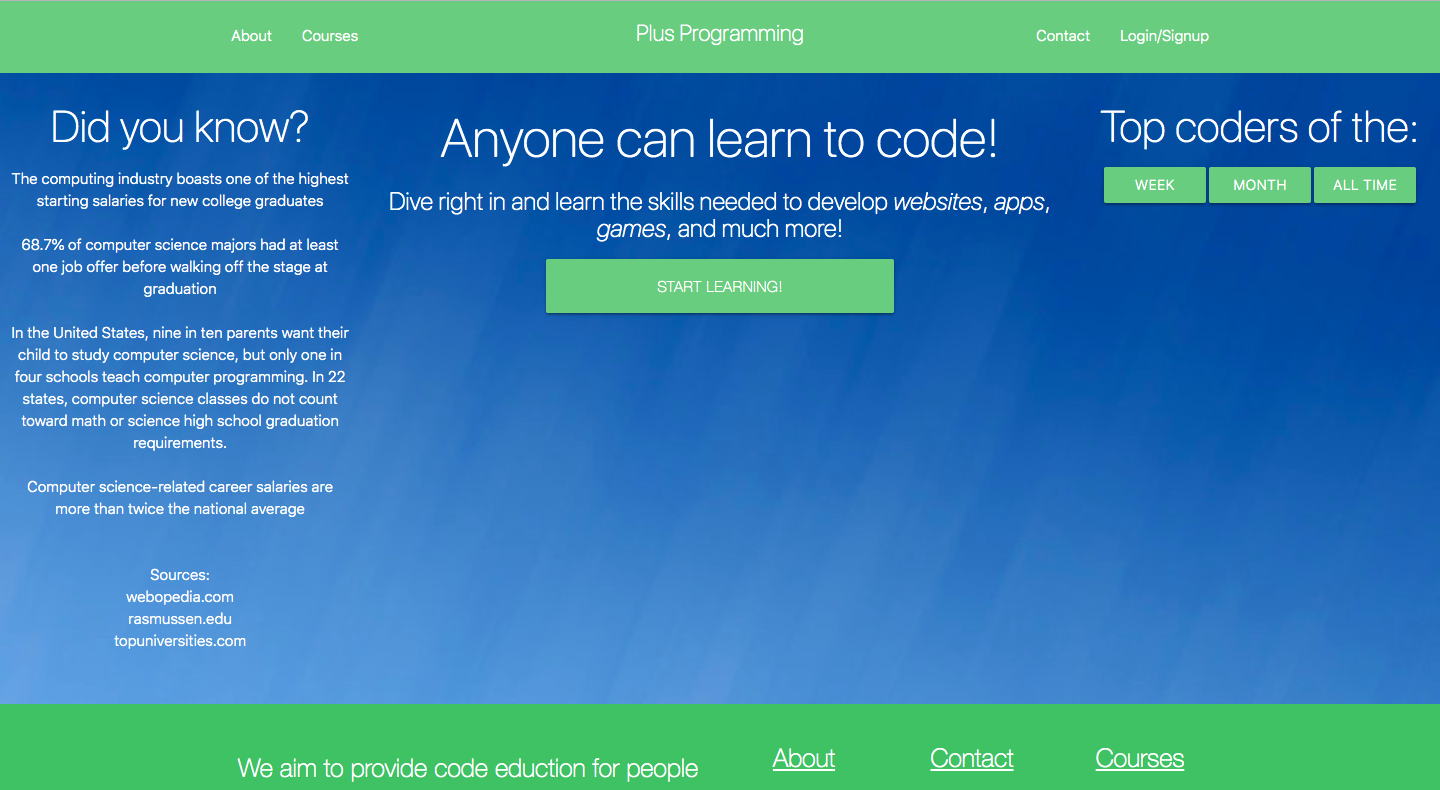
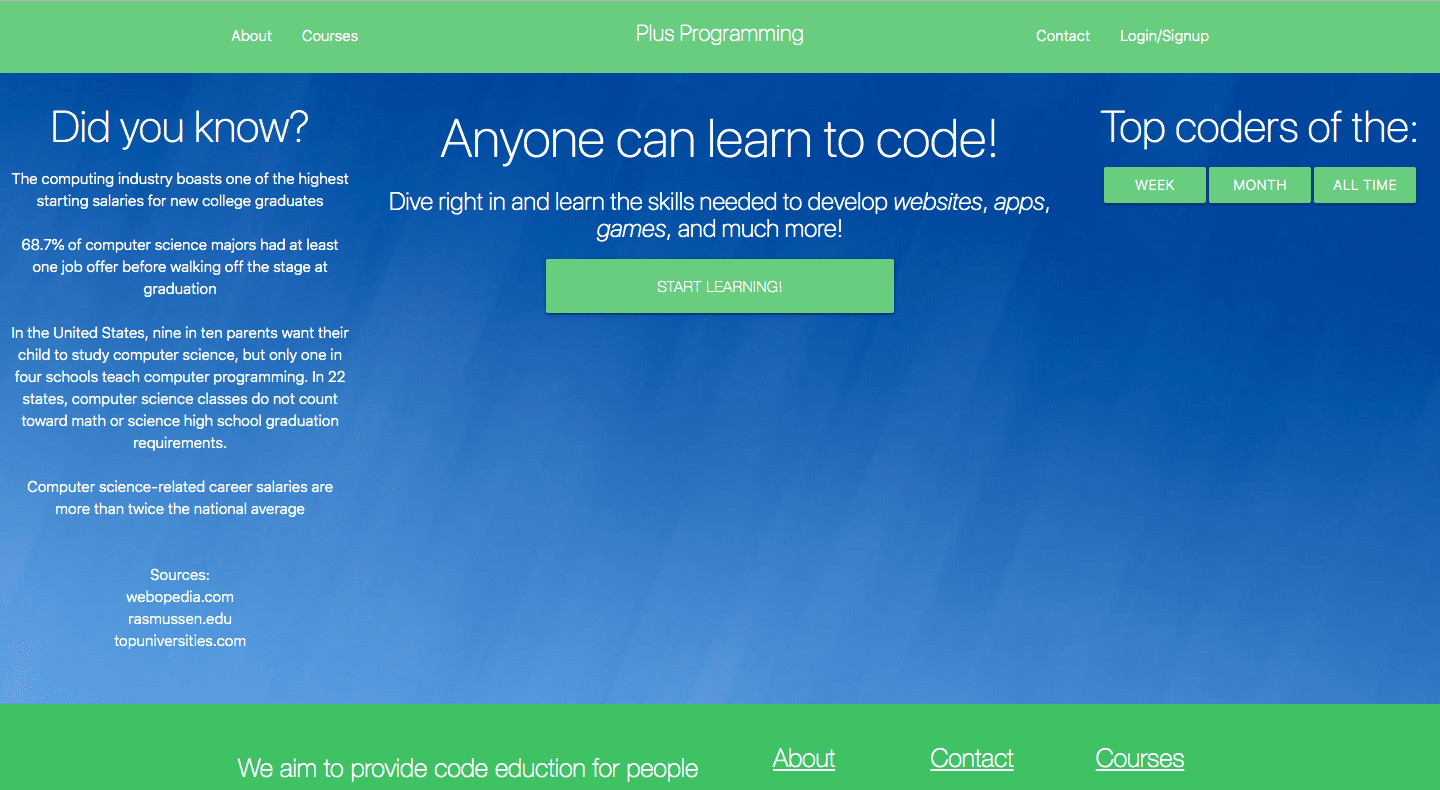
Compressed various images & small code refactoring

Changed region(s): [[0.7812, 0.9418, 0.8125, 0.9722], [0.0, 0.8506, 0.0312, 0.881]]

diff --git a/srcRewrite/pages/about.html b/srcRewrite/pages/about.html
@@ -1,21 +1,27 @@
 <html lang="en">
+
 <head>
   <!-- Global site tag (gtag.js) - Google Analytics -->
-  <script async src="https://www.googletagmanager.com/gtag/js?id=UA-135502901-1"></script>
+  <script async
+    src="https://www.googletagmanager.com/gtag/js?id=UA-135502901-1"></script>
   <script>
-  window.dataLayer = window.dataLayer || [];
-  function gtag(){dataLayer.push(arguments);}
-  gtag('js', new Date());
+    window.dataLayer = window.dataLayer || [];
+    function gtag() { dataLayer.push(arguments); }
+    gtag('js', new Date());
 
-  gtag('config', 'UA-135502901-1');
+    gtag('config', 'UA-135502901-1');
   </script>
   <meta charset="UTF-8">
   <meta name="viewport" content="width=device-width, initial-scale=1.0">
   <meta http-equiv="X-UA-Compatible" content="ie=edge">
 
-  <link rel="stylesheet" href="https://cdnjs.cloudflare.com/ajax/libs/materialize/1.0.0/css/materialize.min.css">
-  <link href="https://fonts.googleapis.com/icon?family=Material+Icons" rel="stylesheet">
-  <script defer src="https://use.fontawesome.com/releases/v5.6.3/js/all.js" integrity="sha384-EIHISlAOj4zgYieurP0SdoiBYfGJKkgWedPHH4jCzpCXLmzVsw1ouK59MuUtP4a1" crossorigin="anonymous"></script>
+  <link rel="stylesheet"
+    href="https://cdnjs.cloudflare.com/ajax/libs/materialize/1.0.0/css/materialize.min.css">
+  <link href="https://fonts.googleapis.com/icon?family=Material+Icons"
+    rel="stylesheet">
+  <script defer src="https://use.fontawesome.com/releases/v5.6.3/js/all.js"
+    integrity="sha384-EIHISlAOj4zgYieurP0SdoiBYfGJKkgWedPHH4jCzpCXLmzVsw1ouK59MuUtP4a1"
+    crossorigin="anonymous"></script>
 
   <link rel="stylesheet" href="../dependencies/animate.min.css">
   <link rel="stylesheet" href="../common.css">
@@ -26,6 +32,7 @@
   <title>About</title>
 
 </head>
+
 <body>
   <!-- Navbar -->
   <header>
@@ -33,25 +40,38 @@
       <div class="container">
         <a href="../index" class="brand-logo left">Matthew Lin</a>
         <!-- Mobile sidenav trigger icon -->
-        <a href="#" class="sidenav-trigger right" data-target="mobile-links">
+        <a href="#" class="sidenav-trigger right"
+          data-target="mobile-links">
           <i class="material-icons">menu</i>
         </a>
 
         <!-- Navbar for large and xlarge screens -->
         <ul class="right hide-on-med-and-down">
-          <li class="blue"><a href="../pages/about" class="waves-effect waves-light btn-large blue z-depth-0">About</a></li>
-          <li><a href="../index" class="waves-effect waves-light btn-large blue lighten-1 z-depth-0">Portfolio</a></li>
-          <li><a href="../pages/testimonials" class="waves-effect waves-light btn-large blue lighten-1 z-depth-0">Testimonials</a></li>
-          <li><a href="../pages/contact" class="waves-effect waves-light btn-large blue lighten-1 z-depth-0">Contact</a></li>
+          <li class="blue"><a href="../pages/about"
+              class="waves-effect waves-light btn-large blue z-depth-0">About</a>
+          </li>
+          <li><a href="../index"
+              class="waves-effect waves-light btn-large blue lighten-1 z-depth-0">Portfolio</a>
+          </li>
+          <li><a href="../pages/testimonials"
+              class="waves-effect waves-light btn-large blue lighten-1 z-depth-0">Testimonials</a>
+          </li>
+          <li><a href="../pages/contact"
+              class="waves-effect waves-light btn-large blue lighten-1 z-depth-0">Contact</a>
+          </li>
         </ul>
       </div>
     </nav>
     <!-- Mobile Navbar (Reactive) -->
     <ul class="sidenav" id="mobile-links">
-      <li class="active"><a href="../pages/about" class="waves-effect waves-light">About</a></li>
-      <li><a href="../index" class="waves-effect waves-light">Portfolio</a></li>
-      <li><a href="../pages/testimonials" class="waves-effect waves-light">Testimonials</a></li>
-      <li><a href="../pages/contact" class="waves-effect waves-light">Contact</a></li>
+      <li class="active"><a href="../pages/about"
+          class="waves-effect waves-light">About</a></li>
+      <li><a href="../index" class="waves-effect waves-light">Portfolio</a>
+      </li>
+      <li><a href="../pages/testimonials"
+          class="waves-effect waves-light">Testimonials</a></li>
+      <li><a href="../pages/contact"
+          class="waves-effect waves-light">Contact</a></li>
     </ul>
   </header>
 
@@ -62,10 +82,12 @@
       <h4 id="title"></h4>
     </div>
 
-    <img class="col s12 m2 offset-m1 scale-image hide" src="../images/mbhs.jpg">
-    <img class="col s12 m2 scale-image hide" src="../images/ucsd-extension.jpg">
+    <img class="col s12 m2 offset-m1 scale-image hide"
+      src="../images/mbhs.jpg">
+    <img class="col s12 m2 scale-image hide"
+      src="../images/ucsd-extension.jpg">
     <img class="col s12 m2 scale-image hide" src="../images/matthew.JPG">
-    <img class="col s12 m2 scale-image hide" src="../images/mit.png">
+    <img class="col s12 m2 scale-image hide white" src="../images/mit.png">
     <img class="col s12 m2 scale-image hide" src="../images/frc.jpeg">
     <!-- <div class="col s12 m2 offset-m5">
       <img class="scale-image hide" src="../images/matthew.jpg">
@@ -78,40 +100,65 @@
 
     <div class="col s12 m8 offset-m2 hide">
       <p class="flow-text">
-        I first discovered my passion for programming around the age of 12 when I stumbled upon the game making tool called Unity.
-        In the time since, I have been constantly working towards improving my abilities.
-        I am extremely grateful for the amazing opportunities that I have been given which have allowed me to hone and develop my skill set.
-        I make sure to utilize them in a productive way in order to help myself in addition to teaching and assisting others.
-        <br /><br />I attended Pacific Beach Middle School in the 17-18 school year and graduated with a 4.0 GPA.
-        In addition to this, I attended <strong>UCSD Extension for a Certificate in C/C++ Programming</strong> which I obtained September 2018.
-        I am currently a sophomore at Mission Bay High School and hold a Cumulative <strong>4.63 GPA</strong> (w/o PE).
-        <br /><br />I currently take part in many extracurriculars that I love doing.
-        I am a co-founder of the Mission Bay High School Entrepreneurship Club. I am also a member of the Track & Field
-        team. In addition, I am violinist in my school's orchestra and one of the student leaders in our robotics team's
+        I first discovered my passion for programming around the age of 12
+        when I stumbled upon the game making tool called Unity.
+        In the time since, I have been constantly working towards improving
+        my abilities.
+        I am extremely grateful for the amazing opportunities that I have
+        been given which have allowed me to hone and develop my skill set.
+        I make sure to utilize them in a productive way in order to help
+        myself in addition to teaching and assisting others.
+        <br /><br />I attended Pacific Beach Middle School in the 17-18
+        school year and graduated with a 4.0 GPA.
+        In addition to this, I attended <strong>UCSD Extension for a
+          Certificate in C/C++ Programming</strong> which I obtained
+        September 2018.
+        I am currently a sophomore at Mission Bay High School and hold a
+        Cumulative <strong>4.63 GPA</strong> (w/o PE).
+        <br /><br />I currently take part in many extracurriculars that I
+        love doing.
+        I am a co-founder of the Mission Bay High School Entrepreneurship
+        Club. I am also a member of the Track & Field
+        team. In addition, I am violinist in my school's orchestra and one
+        of the student leaders in our robotics team's
         programming division.
-        <br /><br />The work that I do is honest and filled with the very passion that drives me to push my limits farther and farther each passing day.
-        Over the past few years, I have had the opportunity to interact with and learn from amazing people in the software industry.
+        <br /><br />The work that I do is honest and filled with the very
+        passion that drives me to push my limits farther and farther each
+        passing day.
+        Over the past few years, I have had the opportunity to interact
+        with and learn from amazing people in the software industry.
         <br /><br />Currently, I am working on
-        <a href="https://plusprogramming.net/pages/about" target="_blank" class="white-link">Plus Programming</a> which is an code education platform
-        which aims to teach people of all ages many skills essential in the computer science industry. Currently, I am still working
-        on getting the main website up and running, but the blog and youtube channel already have content available. I started this project
-        to combine my two passions in order to create something that can benefit everyone. I also want to help give back to the cs community
-        as I wouldn't be here without the vast amount of free learning resources that I have utilized over my years coding.
+        <a href="https://plusprogramming.net/pages/about" target="_blank"
+          class="white-link">Plus Programming</a> which is an code
+        education platform
+        which aims to teach people of all ages many skills essential in the
+        computer science industry. Currently, I am still working
+        on getting the main website up and running, but the blog and
+        youtube channel already have content available. I started this
+        project
+        to combine my two passions in order to create something that can
+        benefit everyone. I also want to help give back to the cs community
+        as I wouldn't be here without the vast amount of free learning
+        resources that I have utilized over my years coding.
         <br /><br />
         And yes... I have friends. In my free time I enjoy going out with
-        friends and I also occasionally play some video games with them as well.
-        I also love staying healthy through running which is why I am an active
+        friends and I also occasionally play some video games with them as
+        well.
+        I also love staying healthy through running which is why I am an
+        active
         member of my school's Track&Field team!
       </p>
       <section class="small-space-section blue lighten-1"></section>
       <h5>Work Experience</h5>
       <p class="flow-text">
-        <a href="../work-experience/robolink.html" class="white-link">Robolink Summer 2019 Internship</a>
+        <a href="../work-experience/robolink.html"
+          class="white-link">Robolink Summer 2019 Internship</a>
       </p>
       <section class="small-space-section blue lighten-1"></section>
       <h5>Technical Skills</h5>
       <p class="flow-text">
-        Full-Stack Web Programming (React,MaterializeCSS,TS,Node,PHP) | 1 Year
+        Full-Stack Web Programming (React,MaterializeCSS,TS,Node,PHP) | 1
+        Year
         <br />
         C/C++ Programming | 3 Years
         <br />
@@ -128,21 +175,24 @@
         <h4>Contact:</h4>
 
         <!-- Social media icons -->
-        <a href="https://www.instagram.com/matthew.plusprogramming/" class="hide-on-med-and-down white-link" target="_blank">
+        <a href="https://www.instagram.com/matthew.plusprogramming/"
+          class="hide-on-med-and-down white-link" target="_blank">
           <span class="fa-stack fa-lg">
             <i class="fas fa-circle fa-stack-2x" style="color: red"></i>
             <i class="fab fa-instagram fa-stack-1x"></i>
           </span>
         </a>
 
-        <a href="instagram://user?username=matthew.plusprogramming" class="hide-on-large-only white-link" target="_blank">
+        <a href="instagram://user?username=matthew.plusprogramming"
+          class="hide-on-large-only white-link" target="_blank">
           <span class="fa-stack fa-lg">
             <i class="fas fa-circle fa-stack-2x" style="color: red"></i>
             <i class="fab fa-instagram fa-stack-1x"></i>
           </span>
         </a>
 
-        <a href="mailto:matthewlinplusprogramming@gmail.com" class="white-link">
+        <a href="mailto:matthewlinplusprogramming@gmail.com"
+          class="white-link">
           <span class="fa-stack fa-lg">
             <i class="fas fa-circle fa-stack-2x" style="color: green"></i>
             <i class="fas fa-envelope fa-stack-1x"></i>
@@ -172,9 +222,10 @@
   </footer>
   <script src="https://code.jquery.com/jquery-3.3.1.min.js"></script>
   <!-- Compiled and minified JavaScript -->
-  <script src="https://cdnjs.cloudflare.com/ajax/libs/materialize/1.0.0/js/materialize.min.js"></script>
+  <script
+    src="https://cdnjs.cloudflare.com/ajax/libs/materialize/1.0.0/js/materialize.min.js"></script>
   <script>
-    $(document).ready(function() {
+    $(document).ready(function () {
       $('.sidenav').sidenav();
     });
 
@@ -190,4 +241,5 @@
     }).go();
   </script>
 </body>
+
 </html>
